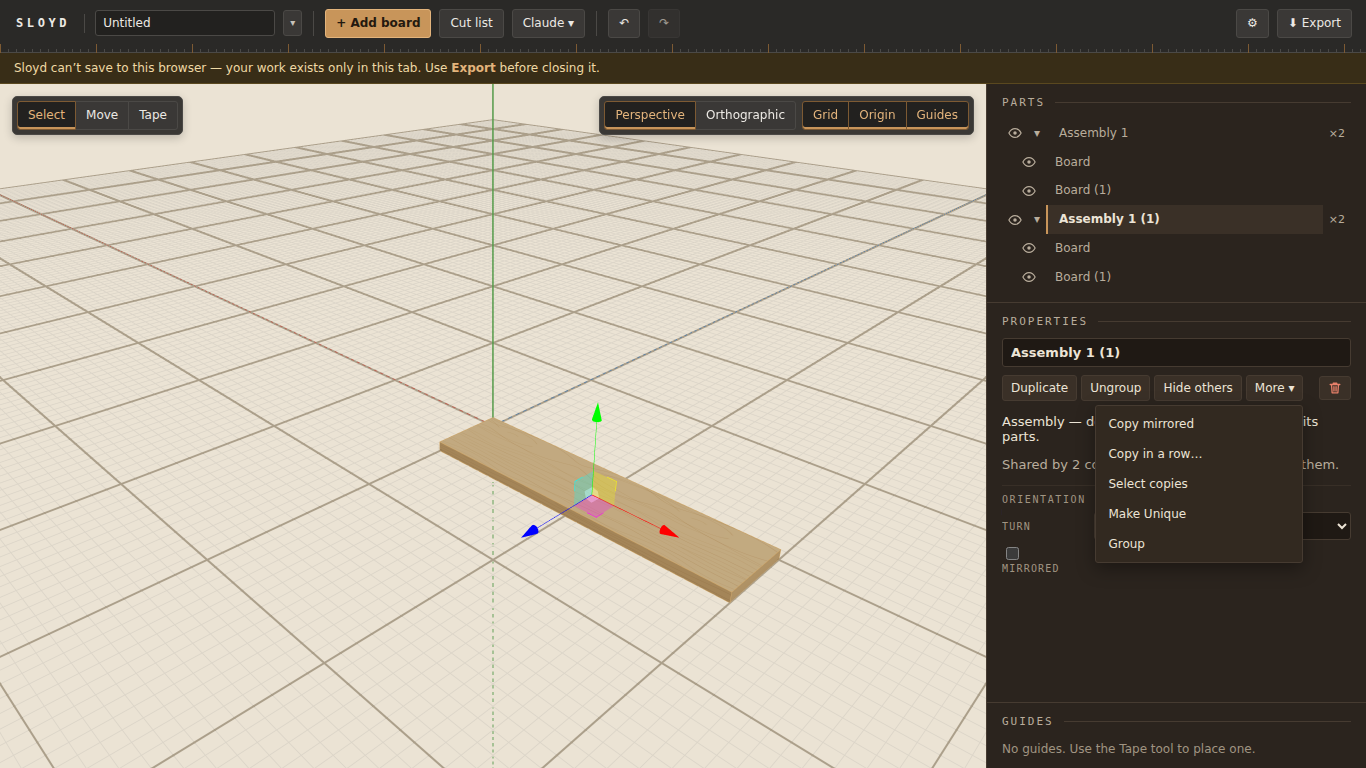
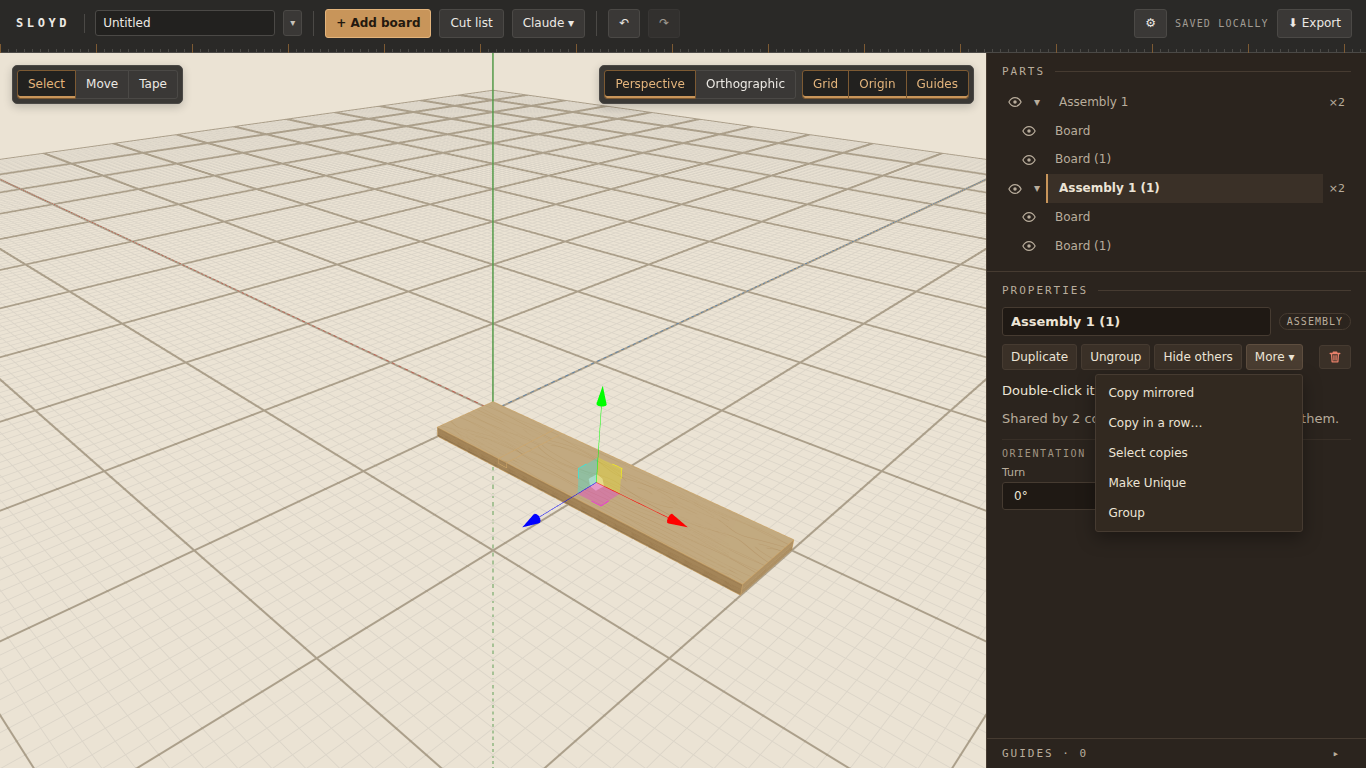
docs(ui-polish): live check, round record, follow-ups

diff --git a/docs/browser-verification-ui-polish.md b/docs/browser-verification-ui-polish.md
@@ -1,0 +1,146 @@
+# Browser verification — UI polish
+
+Date: 2026-10-11. Dev server (Vite, port 5180), Playwright, software GL (fu 26a: layout and DOM, not shading).
+Viewports: **1920×1080** and **1366×768**. Spec: `docs/superpowers/specs/2026-10-11-sloyd-ui-polish-design.md` §7.
+Plan: `docs/superpowers/plans/2026-10-11-sloyd-ui-polish.md`. Branch `ui-polish`, tip `6477c4b` when checked.
+
+Each task ran its own live check as it landed (Tasks 1–8, summarised below with their screenshots). Task 9 then ran
+the whole-app pass fresh at both sizes. Every session started and ended with `localStorage.clear()`, read back as
+`localStorage.length === 0`. Console: 0 errors; the only warnings are the known Three.js deprecations
+(THREE.Clock, PCFSoftShadowMap).
+
+## 1. Header (Task 4 Step 7, re-run in Task 9)
+
+The plan's header readout (`.toolbar` scrollWidth vs clientWidth, page scrollWidth vs `innerWidth`, every header
+button under 34px high, no two header boxes overlapping):
+
+| Viewport | fits | docFits | oneLine | overlap |
+|---|---|---|---|---|
+| 1920×1080 | true | true | true | false |
+| 1366×768 | true | true | true | false |
+
+Screenshots (Task 4, with Claude ▾ open): `docs/img/ui-polish-header-1920.png`, `docs/img/ui-polish-header-1366.png`.
+
+**Focus return, with real clicks** (Playwright mouse clicks at the button's centre, not DOM `.click()`), at 1366×768:
+- Focus parked on `<body>`; a real click on ⚙ (`aria-label="Settings"`) opened Settings; a real click on its
+  Cancel closed it. `document.activeElement` was the ⚙ button (`BUTTON`, label "Settings"). This closes the Task 4
+  note that a DOM click left focus on `<body>` — a real click focuses the button, as a user's would on Chromium.
+- Claude ▾ → Generate… → Cancel (all real clicks): `document.activeElement` was the `Claude ▾` trigger.
+
+**Popups close** (real clicks and key presses, 1920×1080): Claude ▾ open → Escape closes it and focus is on its
+trigger; open again → a click outside closes it. More ▾ in the side panel likewise: Escape closes it **and leaves
+the selection alone** (the Escape is stopped on the popover's subtree, inv 27), an outside click closes it.
+
+## 2. Viewport overlays (Task 3)
+
+Tools top-left, Perspective/Orthographic and Grid/Origin/Guides top-right, the Move hint bottom-left, the tape
+readout bottom-right (inv 28, unconditionally mounted). Clicking Grid, Orthographic and Perspective with a part
+selected kept the part's row `aria-pressed="true"` — an overlay click does not reach the canvas. Tape tool + Grid
+click: no tape readout appeared. Screenshot: `docs/img/ui-polish-overlays.png`.
+
+## 3. Side panel (Task 6 Step 8, re-run in Task 9)
+
+One part with one cut selected (Add board, + Add cut):
+
+| Viewport | `.field label`s | tallest label | `.panel-props` scrollHeight / clientHeight |
+|---|---|---|---|
+| 1920×1080 | 18 | 13px (none ≥ 18) | 922 / 922 — the whole panel and the cut card show without scrolling |
+| 1366×768 | 18 | 13px (none ≥ 18) | 725 / 610 — scrolls, as expected at this height |
+
+- **Width error spans the row** (1366): typed `abc` in Width, Enter. `.field-error` "Enter a measurement, e.g. 3/4
+  or 1-1/2" is 338.98px wide; its grid is 339px. Escape restored the stored `5-1/2"`.
+- **Assembly** (two boards, Ctrl+A, Group): the Mirrored checkbox and its text share one line at both sizes (label
+  20px high, box 14px inside it).
+- The refused-posture back-fill was not checked: no fixture gives one (as in Task 6).
+
+Screenshots: `docs/img/ui-polish-part-1920.png`, `docs/img/ui-polish-assembly-1366.png` (Task 6).
+
+## 4. Action row (Task 5; screenshot retaken in Task 9)
+
+Worst case at 1366×768 (Assembly 1 duplicated, the copy selected): visible `Duplicate · Ungroup · Hide others`,
+More ▾, trash. `.action-bar` 26.8px high (one line), 349px wide; the sidebar sits at its 380px floor. More ▾ holds
+`Copy mirrored · Copy in a row… · Select copies · Make Unique · Group` and its popup stays inside the sidebar
+(Task 5: [1095–1303]×[405–563] within [986–1366]×[0–768]; the trash's right edge 1351 = the panel's content edge).
+Screenshot `docs/img/ui-polish-actions.png`, retaken after a reload on a cleared `localStorage`, so the storage
+banner Task 5's capture showed (it had cleared storage mid-session) is gone.
+
+## 5. Guides footer (Task 7)
+
+1366×768 with 12 boards: Parts capped at 269px (35vh) and scrolls; Properties 416px visible; the closed footer 30px.
+A guide placed with the Tape tool (two clicks) opened the footer by itself ("GUIDES · 1 ▾"). Screenshot
+`docs/img/ui-polish-guides.png` (1920×1080).
+
+## 6. Dialogs and the cut list sheet (Task 8, plus Task 9 at 1366)
+
+Every select in every dialog carries `.input`; checkboxes and radios take the oak accent (`accent-color`
+rgb(200, 149, 90)). Generate's Max width/depth/height sit in one row of three; Refine's likewise; Settings is three
+stacked label-over-control fields; Copy in a row's Gap/Pitch/Fit radios sit inline with spacing.
+Screenshots: `docs/img/ui-polish-dialog-{cutlist,generate,refine,joinery,settings,project-menu,copy-row}.png`.
+
+**Generate at 1366×768** (Task 9; Task 8 checked 1920 only): the "Generations" legend (top 180.5, bottom 193.5)
+and its three radio labels (top 180, bottom 194, left 515 / 556 / 597, after the legend's right edge at 495) are one
+line; the fieldset is 14px high. Screenshot `docs/img/ui-polish-dialog-generate-1366.png`.
+
+## 7. Print
+
+Task 8 compared `emulateMedia('print')` full-page screenshots of the same three-board document with a dado, Sheet
+layouts on and Diagrams "All parts": `docs/img/ui-polish-print-before.png` (taken before Task 1's first edit) and
+`docs/img/ui-polish-print-after.png`. Both 1905×1322; `ImageChops.difference(...).getbbox()` is `None` —
+**pixel-identical**.
+
+## 8. Contrast
+
+Final token values from `src/styles.css` `:root`, WCAG 2.x ratios computed with `src/palette.test.ts`'s formula
+(that test asserts each ≥ 4.5:1 and passes):
+
+| Text | on | Ratio |
+|---|---|---|
+| `--walnut-ink` `#ece4d6` | `--walnut-900` `#2b241e` | 12.11 |
+| `--walnut-ink-dim` `#b9ad9c` | `--walnut-900` | 6.93 |
+| `--walnut-ink-dim` | `--walnut-800` `#3a3027` | 5.83 |
+| `--walnut-ink-faint` `#a09482` | `--walnut-900` | 5.13 |
+| `--grey-ink` `#ece9e4` | `--grey-850` `#2a2927` | 12.00 |
+| `--grey-ink-dim` `#c8c3bb` | `--grey-850` | 8.29 |
+| `--grey-ink-dim` | `--grey-700` `#3a3836` | 6.66 |
+| `--accent` `#c8955a` | `--walnut-900` | 5.75 |
+| `--accent-bright` `#e3b47c` | `--grey-900` `#22211f` | 8.49 |
+| `--on-accent` `#23190f` | `--accent` | 6.49 |
+| `--alert` `#e8806a` | `--walnut-900` | 5.62 |
+| `--alert` | `--walnut-800` | 4.73 |
+
+**Values that differ from spec §2's table** (§2 allows nudges; the roles did not change): the spec's single ink
+scale became one per material. Walnut ink-dim `#b3a898` → `#b9ad9c` and ink-faint `#857a6c` → `#a09482` (the spec's
+faint measures 3.64:1 on walnut-900, below the floor); grey gained its own scale, `--grey-ink` `#ece9e4`, with the
+spec's `#c8c3bb` as `--grey-ink-dim`. These came with the plan's `:root` (Task 1); no value was nudged during a live
+pass. The lowest pair is `--alert` on `--walnut-800` at 4.73.
+
+## 9. Snap markers on the maple ground
+
+Fixture: two 24 × 5-1/2 × 3/4in flat boards, one moved to Z 14. Move tool, the board at the origin selected, one of
+its corners grabbed; then the second board's points hovered. Screenshot `docs/img/ui-polish-snaps.png` (three crops
+at 3×, 1920×1080): corner (green `#2e9e5b`), edge midpoint (cyan `#22b8d4`, the short top edge), face centre
+(violet `#8a5fd0`, the top face). Each marker drew where hovered (DOM-free check: a screenshot diff against the
+un-hovered frame, bounding box 14×14px at the point, centre pixel exactly the marker colour).
+
+Fill against the new ground `#ebe3d4` (against the old `#e6e3dd` in brackets): corner 2.67 (2.66), edge-mid 1.86
+(1.85), face 3.56 (3.54), guide `#4f6fd0` 3.65 (3.63). The ring `#f5f2ec` is 1.14 on the ground (1.15 before): it was
+made for walnut and all but vanishes on maple, as it did on the old ground.
+
+**Judgement: all three are legible; the cyan edge midpoint is the weakest.** On the ground it reads by hue, not by
+lightness (1.86:1), and at 1× it is a 14px disc. It is unchanged by this round — the old ground gave the same ratios
+to two decimals — so nothing regressed; whether to darken it is a decision for the user (spec §2.1), recorded as a
+follow-up, not changed here. The guide marker was not hovered (no guide placed); its ratio is above the face
+centre's. Markers were checked at 1920×1080 only; they are drawn at a fixed screen size, so 1366 changes nothing
+about their contrast.
+
+Note for anyone repeating this: on software GL a marker sometimes does not appear in a screenshot taken right after
+a hover; moving 3px off and back and waiting 1.5s drew it reliably.
+
+## Not verified here
+
+- **Real-GPU rendering** of the new ground, grid, hemisphere ground colour and the oak selection emissive
+  (follow-up 26a): llvmpipe renders them here. The user looks once on real hardware after the deploy.
+- **Real print-to-PDF** (follow-ups 70/79/84 still stand): only `emulateMedia('print')`.
+- **Other browsers.** Chromium on Linux only. Popover's and ProjectMenu's focusout close is latent on browsers that
+  do not focus a button on click (follow-up 250).
+- **The deploy.** Not deployed; production still serves the mirrored-instances build.

diff --git a/CLAUDE.md b/CLAUDE.md
@@ -29,6 +29,8 @@ handicraft education tradition built around hand woodworking.
   CHOSEN: ask what to work on; do not pick.** Open near the recent code:
   241 (open by decision),
   221, 225 (rest out of scope), 232, 234, 247. See Open follow-ups below.
+- **The ui-polish round is committed on branch `ui-polish`, merge pending** (its whole-branch
+  review, then the user): no schema change, so rollback is free. Not deployed; follow-ups 248–251.
 - **The deployed commit always trails `HEAD`**: a deploy's own record is committed after
   it. Docs-only commits past the hash above are not unreleased work, and some rounds ship
   byte-identical bundles (test-only). Check what a later commit touches before reading
@@ -80,6 +82,7 @@ One line each; the full narrative per round is in `docs/history.md`.
 | 246/226/227 | 10-11 | — | Deleting an assembly's last part removes it; dead eyes say why; `›` reserved in written names; sweep re-run on flipped views |
 | 229/233 | 10-11 | — | Ungroup keeps the other copy's hidden assembly hidden (as its children); one cap report for one fault |
 | mirrored instances | 10-11 | 13 | `Instance.mirrored`: a live mirrored copy through the one composition; Mirrored checkbox, Copy mirrored, ⇋ badge |
+| ui polish | 10-11 | — | Grey/walnut palette; tools and view float over the viewport; Claude ▾; action row with More ▾ and a trash icon; Guides footer |
 
 ### The deployment rule
 
@@ -253,7 +256,10 @@ src/
 ├── panels/           DimensionField/NameField (invs 5, 9), Properties, CopyInRow, PartsList,
 │                     Toolbar, TapeReadout (invs 27, 28), GuidesList, ProjectMenu,
 │                     SettingsDialog, GenerateDialog, JoineryDialog, RefineDialog, RepairNotice, CutList, PartDiagram,
-│                     SheetLayout, diagramScale, diagramLabels (inv 19)
+│                     SheetLayout, diagramScale, diagramLabels (inv 19); Popover (Claude ▾, More ▾),
+│                     ViewportControls (tools/view over the canvas), ActionBar (three actions, More ▾,
+│                     trash), GuidesFooter (opens itself when the guide count goes up)
+├── styles.css        surface ROLES over --grey-*/--walnut-*; palette.test.ts pins contrast (4.5:1)
 └── App.tsx           layout, autosave/restore, the ONE keydown effect (inv 27), `pending`
                       (inv 29), switchToken (inv 32), `.app-shell` inert behind any modal
 ```
@@ -305,6 +311,11 @@ Deployment scaffolding: `Dockerfile`, `docker-compose.yml`, `nginx.conf`,
   focus. Rendered only when `libraryAvailable`. A duplicate error's cause is read off
   `storage.available` (the ADAPTER flag, never React's `available`; fu 159).
 - **`GuidesList.tsx`** has no selection model, deliberately.
+- **`Popover.tsx`**: focuses the trigger BEFORE running an item (App records the opener);
+  Escape is bound on its subtree with `stopPropagation`, never on window (inv 27).
+  ProjectMenu keeps its own copy.
+- **`styles.css`**: rules read surface ROLES (`--surface`, `--control`, `--rule`, `--ink`…),
+  never raw `--grey-*`/`--walnut-*`; grey chrome re-points the roles in one context selector.
 - **`App.tsx` keys**: plain and Shift+H match by `e.key`; only Alt+H by `e.code === 'KeyH'`;
   Ctrl/Cmd+H is unbound. Escape's ladder: grabbed → tapeAxis → tapeAnchor → tool.
 
@@ -533,7 +544,7 @@ worked examples is in `docs/history.md` ("Removed from CLAUDE.md, 2026-10-07").
 ```bash
 npm install
 npm run dev        # Vite dev server; use --port <n> to avoid collisions
-npm test           # Vitest, currently 2881 tests across 94 files
+npm test           # Vitest, currently 2918 tests across 99 files
 npm run build      # tsc -b && vite build — this is the typecheck gate
 docker compose up -d --build    # deploy (see DEPLOYMENT.local.md first)
 ```
@@ -554,6 +565,10 @@ knowing without opening it:
   since schema 13 a mirrored pair is expressible if prototypes come to need it.
 - **247** — the mirrored-instances residue: `sameSideFirst` is dead in `linkBoards` (still needed
   for the shared posture write) and three texts overstate its role there; small unpinned guards.
+- **248–251** — ui-polish residue: the new viewport colours unseen on a real GPU (248, the user looks
+  after the deploy); the cyan edge-midpoint marker weakest on maple, 1.86:1 (249, a user decision, do not
+  recolour unasked); Popover/ProjectMenu's null-`relatedTarget` focusout would close before an item's click on
+  Safari/macOS Firefox (250, latent); deferred minors (251).
 - **176/177** — the held rules' known limits (mutual lapping) and an unseen live repair.
 - **130** — semi-infinite construction lines; picked and set aside 2026-08-31 without a
   reason. Ask before assuming it's wanted; it needs real hardware (26a).

diff --git a/docs/follow-ups.md b/docs/follow-ups.md
@@ -4878,3 +4878,47 @@ cut stored into the MOVING end) and the old rule leaves it in place, so it ends 
 - The joinery split test (`joints/mirrored.test.ts`) asserts the split, not that the Shelf itself got cuts.
 - `linkBoards`' pivot write would be skipped silently if `partAt` failed to resolve; `linkPlan` makes it unreachable.
 - **Status:** record-only.
+
+## From the ui-polish round — 2026-10-11
+
+**248. The new viewport colours have not been seen on real hardware.** The maple ground `#ebe3d4`, grid
+`#d3c7b3`/`#9c8f7b`, hemisphere ground `#bfb29e` and the oak selection emissive `#c8955a` (spec §2.1) were only
+rendered by llvmpipe here (26a). Colour constants only, no shader change, so the undefined-behaviour risk 26a is about
+does not arise; what is unconfirmed is how the colours look on a real GPU and display.
+- **Status:** open — the user looks once on real hardware after the deploy (spec §7).
+
+**249. The cyan edge-midpoint snap marker is the weakest on the maple ground.** Measured fills against `#ebe3d4`:
+corner `#2e9e5b` 2.67:1, edge-mid `#22b8d4` **1.86:1**, face `#8a5fd0` 3.56:1, guide `#4f6fd0` 3.65:1; the ring
+`#f5f2ec` is 1.14:1 (it exists for walnut and all but vanishes on maple). The live pass found all three hovered markers
+legible (`docs/img/ui-polish-snaps.png`); the cyan reads by hue rather than lightness. Not a regression: the old ground
+`#e6e3dd` gave the same ratios to two decimals.
+- **Status:** open — a decision for the user (spec §2.1: a marker that loses legibility is not recoloured silently).
+  The colours are browser-settled (fu 60); any change re-runs that check on pine, walnut and plywood.
+
+**250. Popover and ProjectMenu close on a focusout whose `relatedTarget` is null — before an item's click lands, on
+browsers that do not focus a button on click.** Safari and macOS Firefox do not focus a `<button>` on mouse click, so
+pressing an item moves focus from the trigger to nowhere (`relatedTarget === null`), `onFocusOut` closes the popup,
+and the item unmounts before its `click` fires: the menu would open and do nothing. Chromium and Firefox on Linux
+focus the button, so `relatedTarget` is the item and the popup stays (driven live with real clicks in this round).
+Latent; the same handler is in `ProjectMenu.tsx`, which predates this round.
+- **Status:** open — latent, a future-platform bug (Linux/Chromium unaffected). A remedy (e.g. ignore a null
+  `relatedTarget` while a pointer is down inside the root) is a hypothesis until driven on such a browser.
+
+**251. Small gaps the round judged fine to leave.** Record-only; the task reviews' deferred minors.
+- **Stale comments.** `BoardMesh.tsx` (~line 14) still says "Brass" for the selection (now oak);
+  `styles.css` (~527) and `TapeReadout.tsx` (~235) cite the removed `.toolbar-hint` (now `.viewport-hint`);
+  `styles.css` (~587) cites 302px for the action row where the live measure was 289.5px of buttons, 337.5px with the
+  trash and gaps, of 349px; `Toolbar.tsx` (~36, across a line break) has a doubled "the".
+- **Dead or dangling.** `GenerateDialog.tsx` (~90) and `RefineDialog.tsx` (~74) keep the `generate-limit` class with no
+  rule; `.add-cut` has no rule; `GuidesFooter`'s `aria-controls="guides-body"` points at nothing while closed.
+- **Tests.** `palette.test.ts` reads `src/styles.css` relative to the cwd (`?raw` is `''` under Vitest and
+  `import.meta.url` fails under jsdom); Popover and ActionBar key items by label (unique today); no test of Popover's
+  `align`/`title`; no test that a guide placed after the user closed the footer reopens it; ViewportControls' ported
+  "independent" test dropped its two initial-state asserts (covered by its `it.each`); `App.test.tsx`'s Claude-item
+  `it.each` takes string keys and branches.
+- **Palette values.** The ink tokens differ from spec §2's table: one scale per material (walnut `#ece4d6`/`#b9ad9c`/
+  `#a09482`, grey `#ece9e4`/`#c8c3bb`/`#a19c94`); the spec's `--ink-faint` `#857a6c` was 3.64:1 on walnut-900, below
+  the floor. No value was nudged in a live pass. Final ratios: `docs/browser-verification-ui-polish.md` §8.
+- **Placement.** A single part's Delete (the trash icon) now sits at the top of the panel, beside the actions (spec
+  §4.2); watch for accidental clicks. Delete is undoable.
+- **Status:** record-only.

diff --git a/docs/history.md b/docs/history.md
@@ -302,6 +302,41 @@ and 79.
 
 ## What each round did
 
+**What the ui-polish round did (2026-10-11)**: a restyle and regroup, every control kept, by the user's choices
+(spec `docs/superpowers/specs/2026-10-11-sloyd-ui-polish-design.md`). Measured first on the dev server: at 1440×900
+the header wrapped and overlapped (⚙ over the Origin checkbox, Guides over "Saved locally"), an assembly's six
+actions wrapped into a 3×2 grid, the Mirrored checkbox split from its label, a part with a cut scrolled the panel.
+Decisions: **palette A** — a warm grey toolbar and floating chrome (`--grey-*`; the plan once said slate, the user's
+mockup was grey), walnut panels and dialogs (`--walnut-*`), a honey-oak accent (was brass), a pale maple viewport
+(`GROUND` `#ebe3d4`, grid and hemisphere ground warmed, selection emissive oak; snap colours unchanged); rules read
+surface ROLES (`--surface`, `--control`, `--rule`, `--ink`…) and the grey context re-points them, so one button rule
+serves both materials; no `--graphite`/`--brass` survives. **Layout B** — the header holds project-level actions
+(project, Add board, Cut list, **Claude ▾** holding Generate/Refine/Add joinery, undo/redo, ⚙, save state, Export);
+tools, projection and Grid/Origin/Guides float over the viewport (`ViewportControls`; the three toggles became
+`aria-pressed` buttons), the Move hint bottom-left, the tape readout still unconditionally mounted bottom-right
+(inv 28). **The action table** — three visible actions per selection kind, the rest under **More ▾**, Delete a
+right-aligned trash icon (`ActionBar`, spec §4.2); `CopyInRow`'s open state lifted so More can open it. Properties
+fields side by side (Size, Position, Orientation & stock as grids; kind chip; "Runs" → "Grain runs"; cuts as cards
+with a ✕ and a count). **Guides auto-open** — the one behaviour change: Guides became a footer (`GuidesFooter`),
+closed by default, opening itself when the guide count goes up, never closing itself; the state is component-local
+view state. Dialogs and the cut list sheet are walnut, one control rule styles every select/checkbox/radio (oak
+`accent-color`), Generate's limits one row of three and its Generations radios inline. Files added:
+`src/panels/Popover.tsx` (a disclosure menu with ProjectMenu's closing rules; it focuses the trigger before running
+an item so App records the opener; ProjectMenu keeps its own copy), `ViewportControls.tsx`, `ActionBar.tsx`,
+`GuidesFooter.tsx`, `src/palette.test.ts` (twelve ink/surface pairs at ≥ 4.5:1, and the retired tokens). Test churn
+moved routes only (tests open Claude ▾ or More ▾ first); assertions stayed. What the reviews and passes caught: the
+plan's claim that no test named "Stop short of" (eleven did), Generate's radios stacking under the new `.field` until
+Task 8, Copy in a row's radios jammed against their text by the global control rule, a missing `props-title` on the
+group panel. Live pass on the dev server (`docs/browser-verification-ui-polish.md`) at 1920×1080 and 1366×768: the
+header fits on one line with nothing overlapping at both; focus returns to ⚙ and to the Claude trigger after a real
+click; More ▾ and Claude ▾ close on Escape and outside click; at 1920 a part with a cut shows without scrolling; the
+assembly action row fits the 380px panel floor; Generate's radios share the legend's line at 1366; the printed cut
+list is pixel-identical before and after; contrast measured (lowest `--alert` on walnut-800 at 4.73:1); the snap
+markers legible on maple, cyan edge midpoint the weakest at 1.86:1 (unchanged from the old ground). Could not
+confirm: the colours on a real GPU (26a; fu 248), real print-to-PDF (70/79/84), browsers other than Chromium on
+Linux (fu 250). Residue: fu 248–251. Test count 2881 -> 2918. No schema change; rollback is free.
+**Not yet merged or deployed** when this was written: the branch awaits its whole-branch review.
+
 **What the mirrored-instances round did (2026-10-11)**: fu 225's first item, a LIVE mirrored copy, by the user's
 choices (live copy, assemblies only, Copy mirrored + a Mirrored checkbox, approach A: the mirror inside the one
 composition). **Schema 13** (`Instance.mirrored`, stored only when true; no step; harm one version back: wrong
